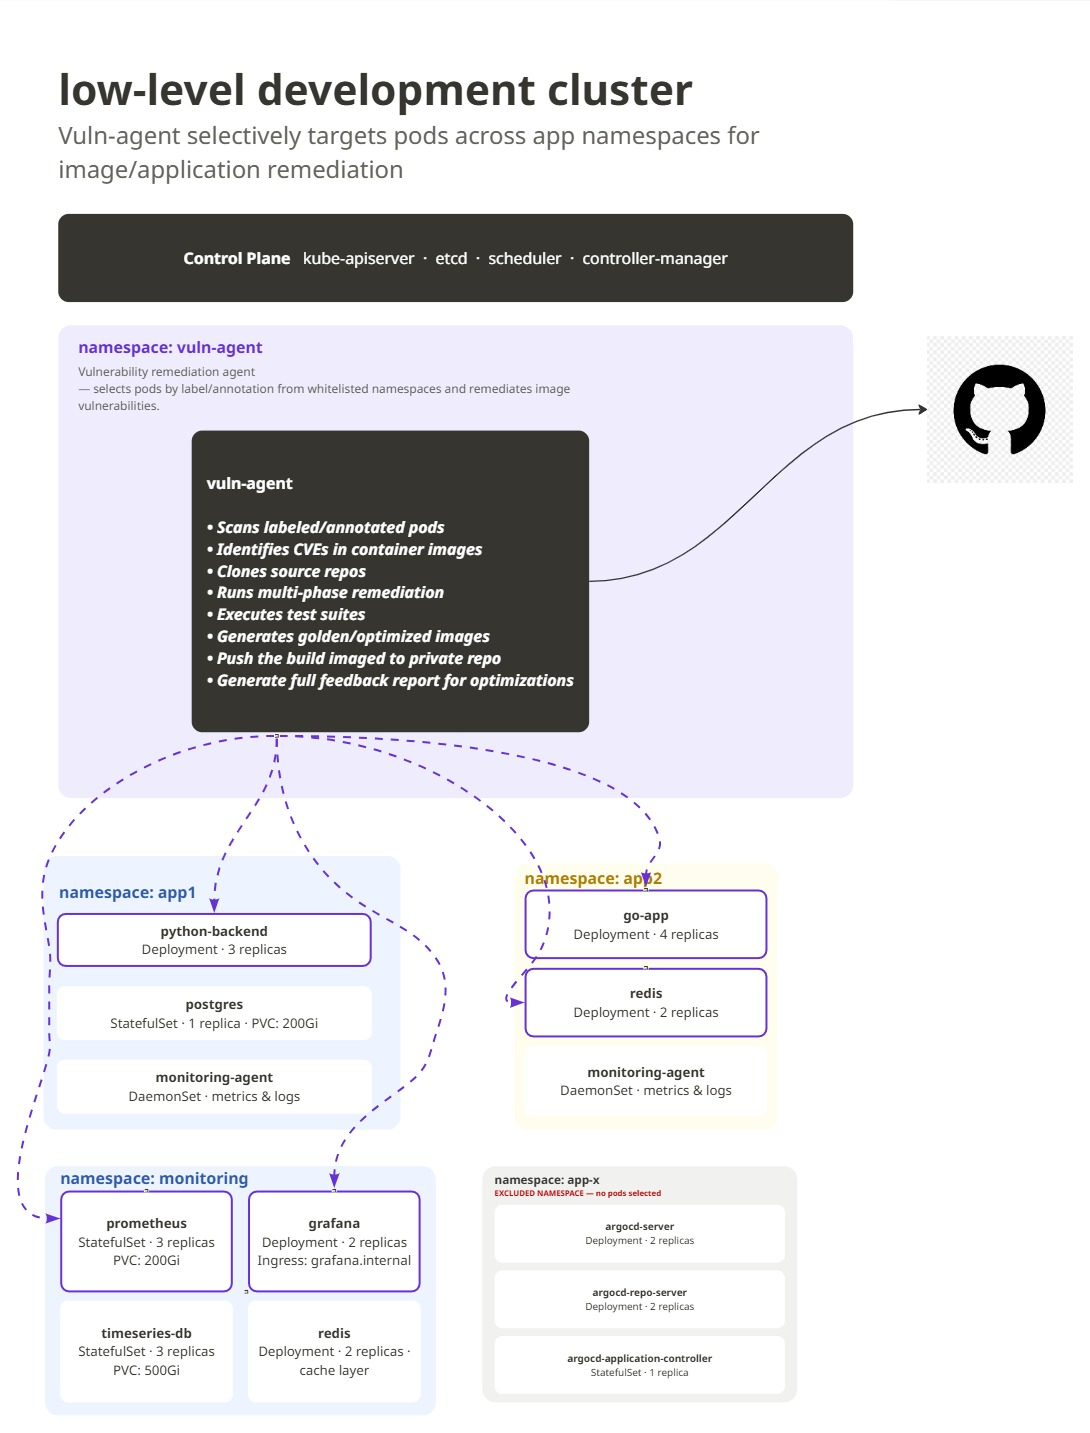
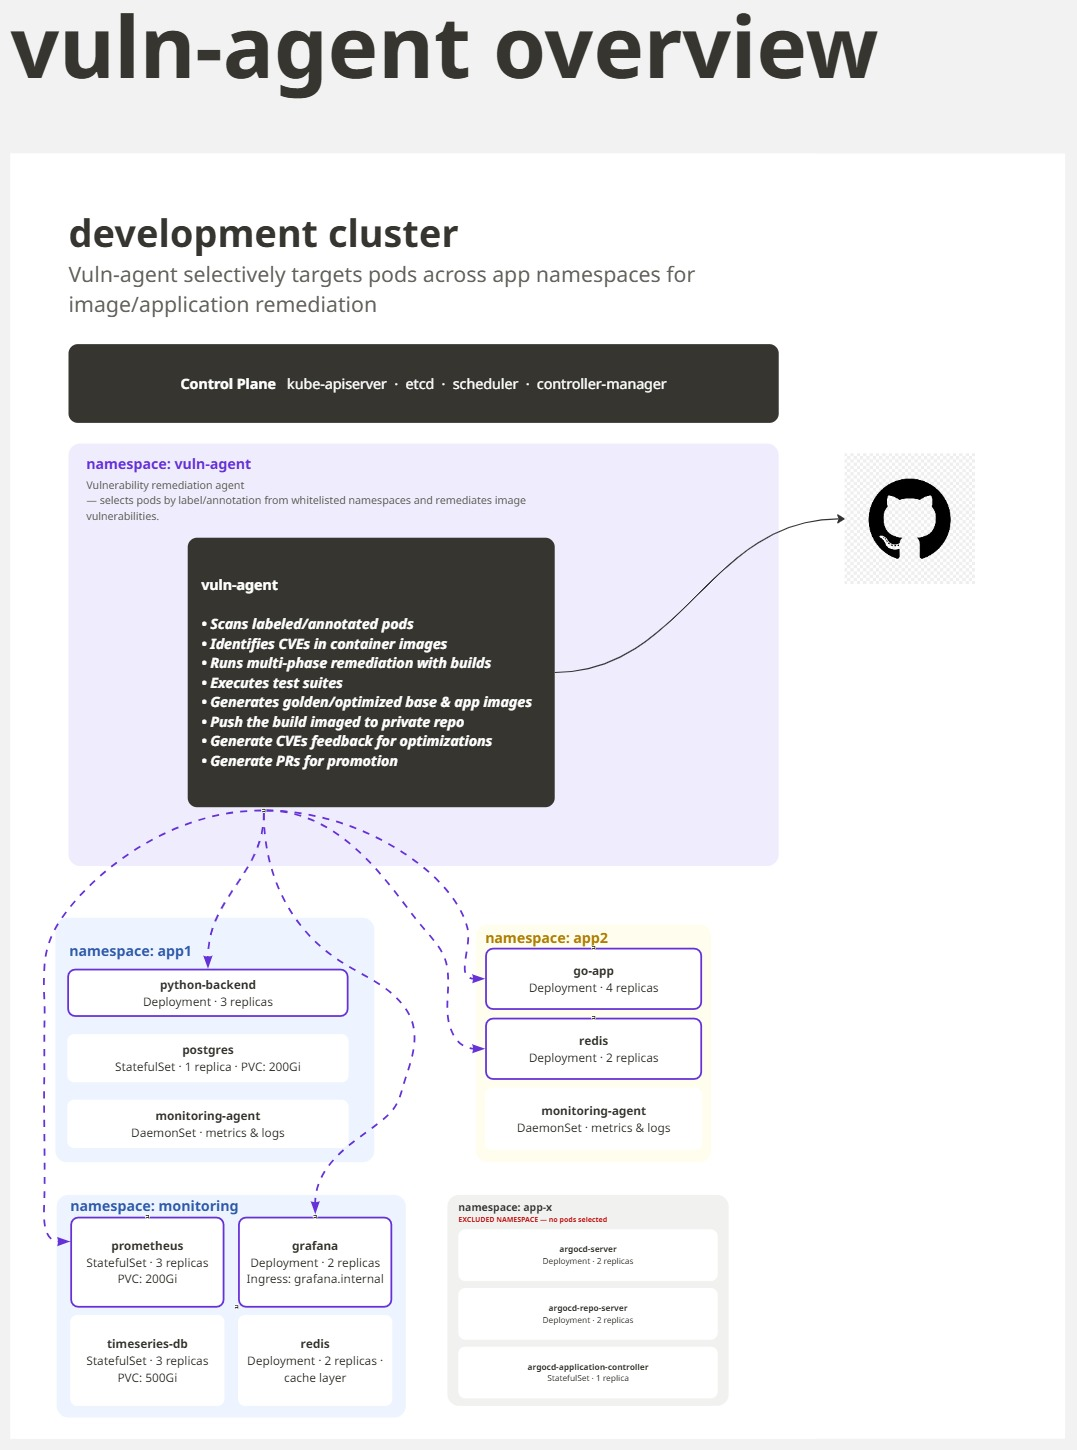
feat: Add image to README for enhanced visual representation of vuln-agent pipeline

diff --git a/README.md b/README.md
@@ -15,6 +15,9 @@ one, and only ever reaches for Claude at the five specific points where a
 lookup table genuinely can't do the job — everything else (tag bumps, package
 upgrades, build/test/rescan verification) is deterministic and Trivy-verified.
 
+<img src="vuln-agent.jpg" alt="vuln-agent — cluster-wide scan, remediate, verify, and report pipeline" width="50%">
+
+
 ## Agentic flow
 
 ```mermaid
